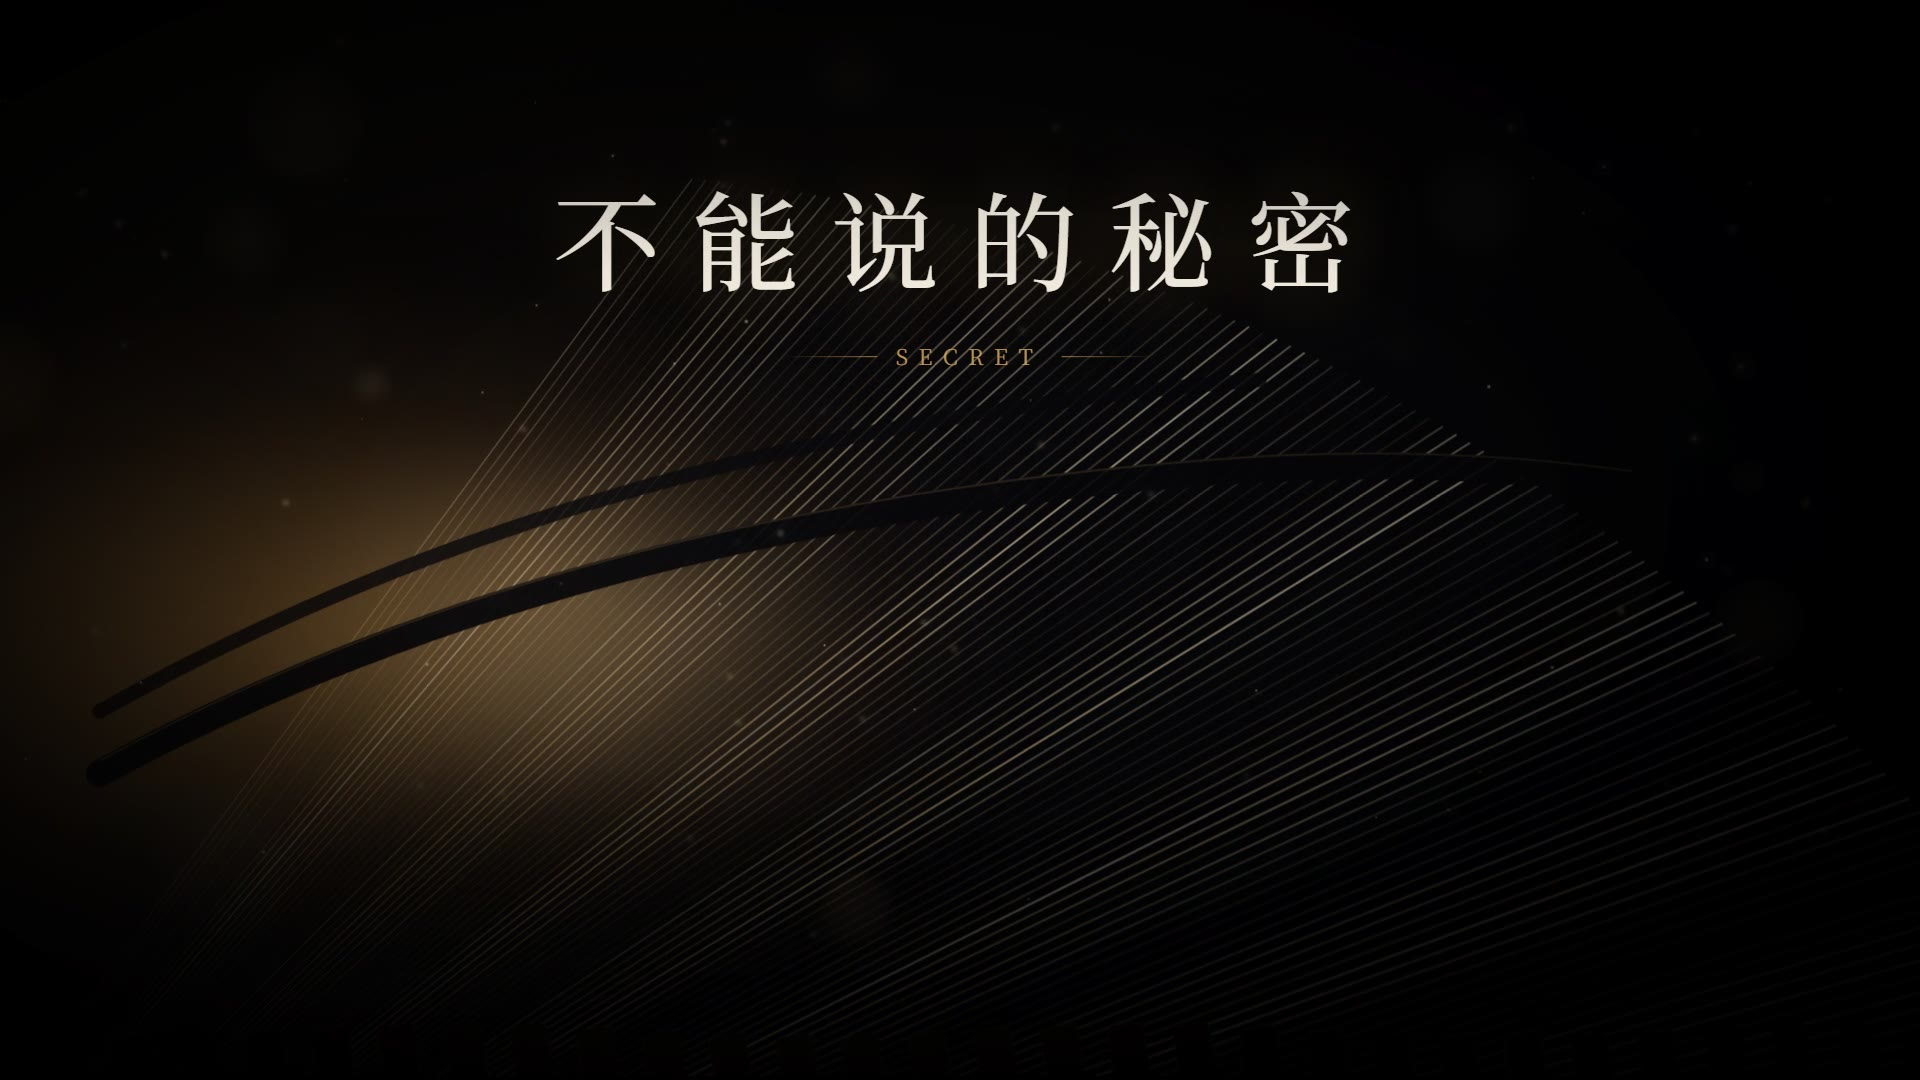
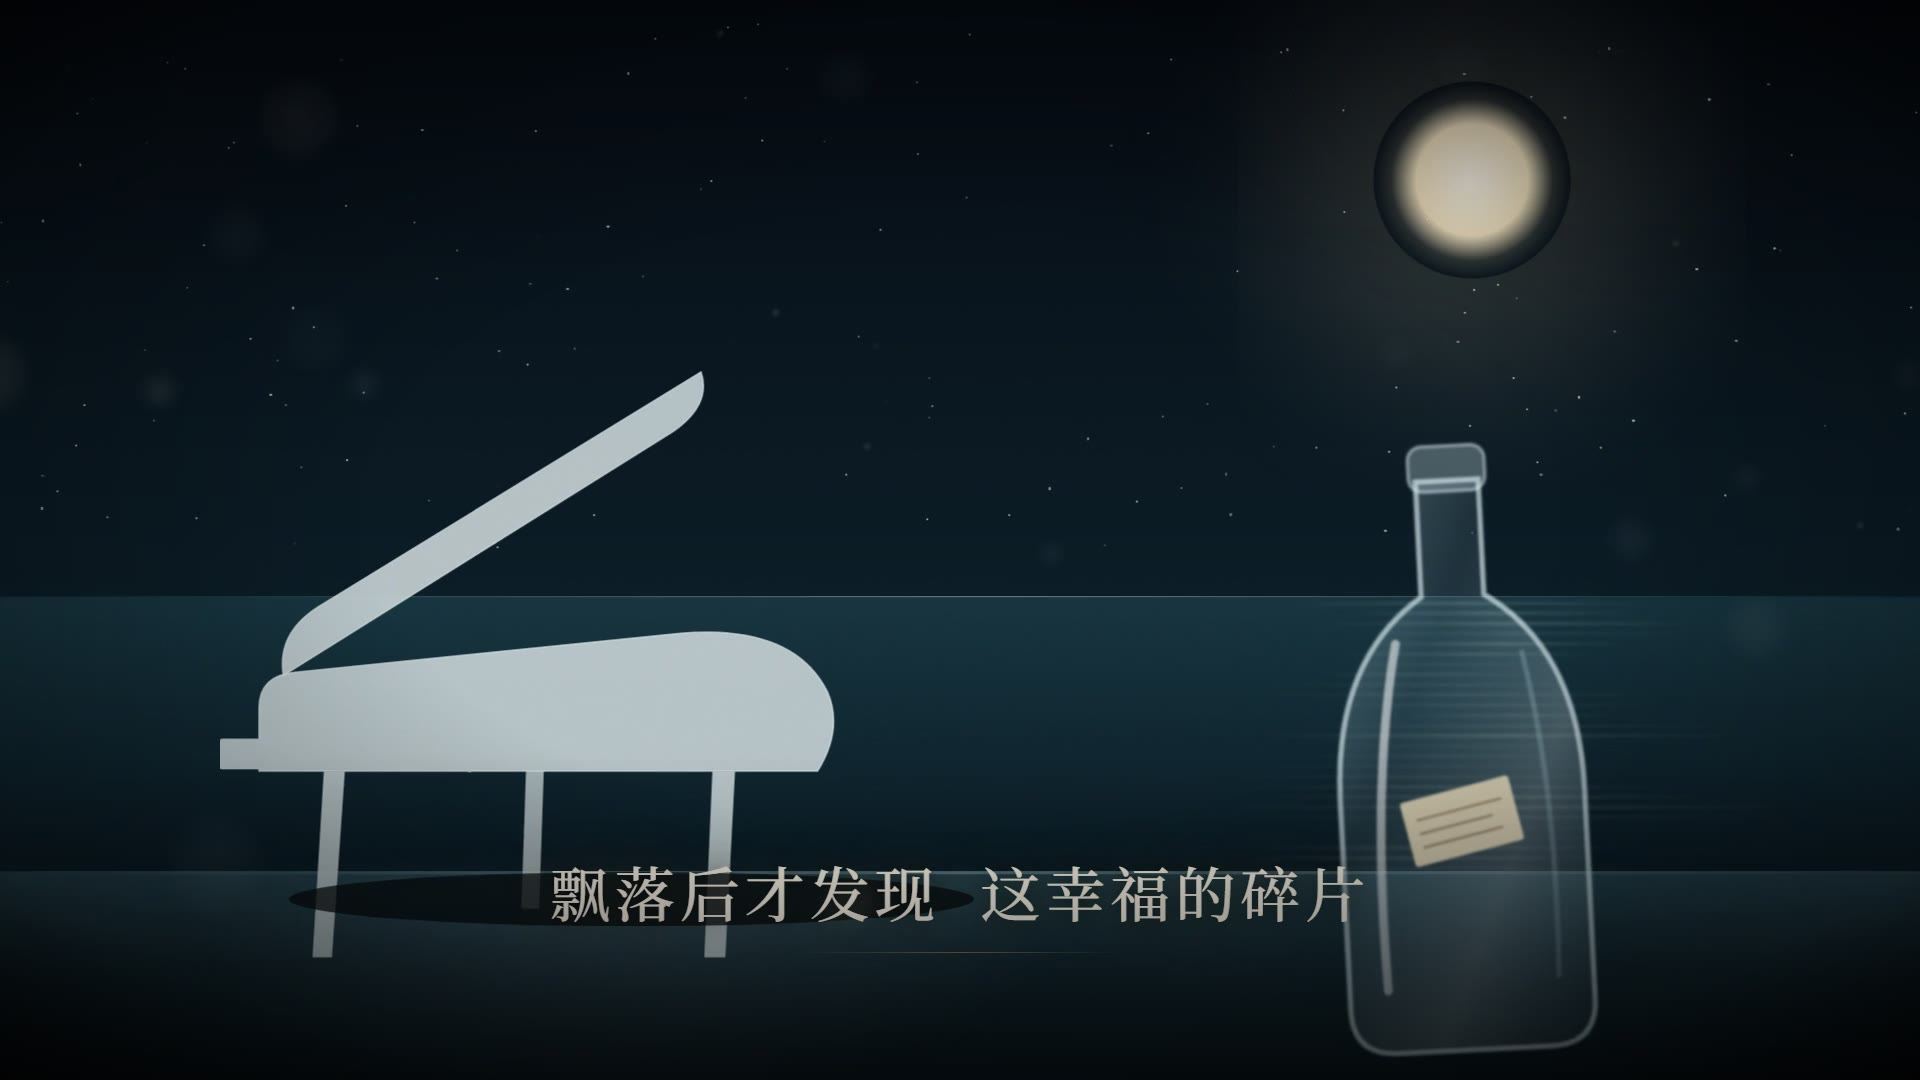
换海报、优化开场遮罩

diff --git a/index.html b/index.html
@@ -55,7 +55,7 @@
   /* 开场遮罩 */
   .gate{
     position:absolute;inset:0;display:flex;flex-direction:column;align-items:center;justify-content:center;
-    background:linear-gradient(180deg,rgba(5,9,15,.55),rgba(5,9,15,.72));
+    background:linear-gradient(180deg,rgba(5,9,15,.30),rgba(5,9,15,.58));
     backdrop-filter:blur(2px);transition:opacity .5s ease,visibility .5s;z-index:4;
   }
   .gate.hide{opacity:0;visibility:hidden}
@@ -96,6 +96,7 @@
     opacity:0;transition:opacity .28s ease;
   }
   .stage:hover .bar,.bar.show,.stage.paused .bar{opacity:1}
+  .gate:not(.hide) ~ .bar{opacity:0!important;pointer-events:none}
   .seek{
     position:relative;height:16px;display:flex;align-items:center;cursor:pointer;
   }
